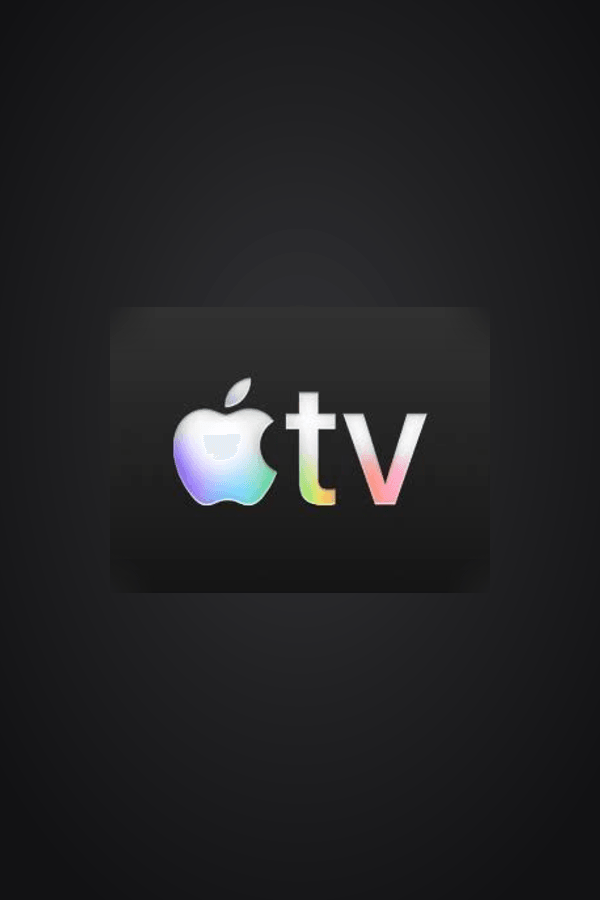
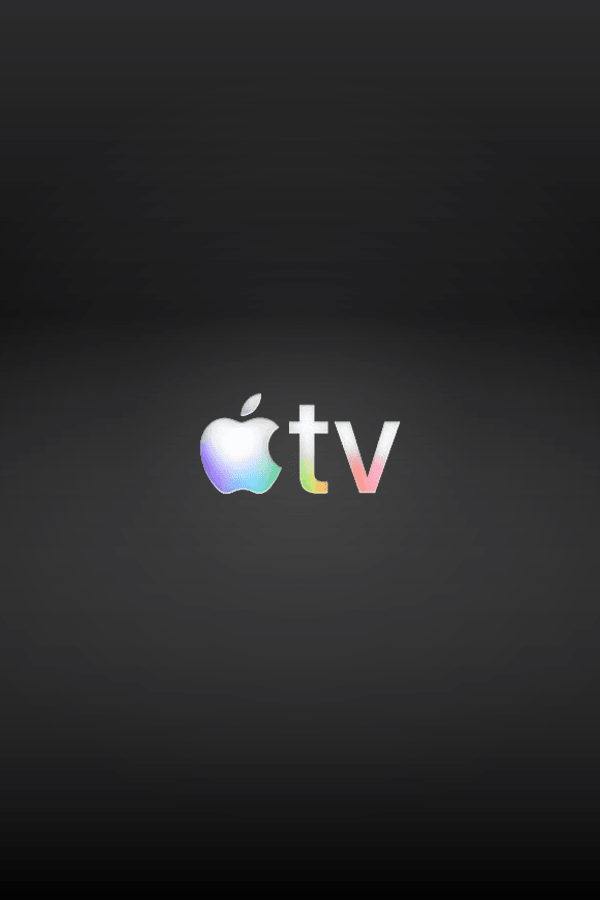
fix: unify card backgrounds to luxury obsidian dark glass and match hero reference background

diff --git a/scripts/build-luxury-cards.js b/scripts/build-luxury-cards.js
@@ -1,0 +1,194 @@
+const fs = require('fs');
+const path = require('path');
+const sharp = require('sharp');
+
+async function main() {
+  const brandsDir = path.join(process.cwd(), 'public', 'brands');
+
+  // Unified luxury card size: 600 x 900
+  const W = 600;
+  const H = 900;
+
+  // Helper to generate a luxury obsidian glass card base with subtle brand ambient backlight
+  function createCardSvg({ glowColor, glowOpacity = 0.22, glowRadius = '55%', topGlow = false }) {
+    return `
+      <svg width="${W}" height="${H}" xmlns="http://www.w3.org/2000/svg">
+        <defs>
+          <!-- Deep luxury dark card base -->
+          <linearGradient id="cardBase" x1="0%" y1="0%" x2="0%" y2="100%">
+            <stop offset="0%" stop-color="#141416" />
+            <stop offset="40%" stop-color="#0b0b0d" />
+            <stop offset="100%" stop-color="#050506" />
+          </linearGradient>
+
+          <!-- Subtle glass surface highlight on top edge -->
+          <linearGradient id="glassSheen" x1="0%" y1="0%" x2="0%" y2="100%">
+            <stop offset="0%" stop-color="#ffffff" stop-opacity="0.10" />
+            <stop offset="35%" stop-color="#ffffff" stop-opacity="0.02" />
+            <stop offset="100%" stop-color="#000000" stop-opacity="0.6" />
+          </linearGradient>
+
+          <!-- Ambient brand backlight glow in center -->
+          <radialGradient id="ambientGlow" cx="50%" cy="50%" r="${glowRadius}">
+            <stop offset="0%" stop-color="${glowColor}" stop-opacity="${glowOpacity}" />
+            <stop offset="45%" stop-color="${glowColor}" stop-opacity="${glowOpacity * 0.4}" />
+            <stop offset="100%" stop-color="${glowColor}" stop-opacity="0" />
+          </radialGradient>
+        </defs>
+
+        <!-- Base background -->
+        <rect width="${W}" height="${H}" fill="url(#cardBase)" />
+
+        <!-- Ambient glow behind the logo -->
+        <circle cx="${W / 2}" cy="${H / 2}" r="${W * 0.7}" fill="url(#ambientGlow)" />
+
+        <!-- Glass sheen -->
+        <rect width="${W}" height="${H}" fill="url(#glassSheen)" />
+      </svg>
+    `;
+  }
+
+  // 1. Netflix: Deep obsidian card with subtle red ambient backlight
+  const netflixSvg = createCardSvg({ glowColor: '#E50914', glowOpacity: 0.28, glowRadius: '50%' });
+  const netflixBase = await sharp(Buffer.from(netflixSvg)).png().toBuffer();
+  // Logo from netflix-transparent.png
+  const netflixLogo = await sharp(path.join(brandsDir, 'netflix-transparent.png'))
+    .resize(220, null, { fit: 'inside' })
+    .toBuffer();
+  await sharp(netflixBase)
+    .composite([{ input: netflixLogo, gravity: 'center' }])
+    .png({ quality: 95 })
+    .toFile(path.join(brandsDir, 'card-netflix.png'));
+  console.log('1. card-netflix.png generated');
+
+  // 2. beIN SPORTS: Deep obsidian card with subtle royal violet ambient backlight
+  const beInSvg = createCardSvg({ glowColor: '#5c2c90', glowOpacity: 0.35, glowRadius: '55%' });
+  const beInBase = await sharp(Buffer.from(beInSvg)).png().toBuffer();
+  const beInLogo = await sharp(path.join(brandsDir, 'beinsports-transparent.png'))
+    .resize(340, null, { fit: 'inside' })
+    .toBuffer();
+  await sharp(beInBase)
+    .composite([{ input: beInLogo, gravity: 'center' }])
+    .png({ quality: 95 })
+    .toFile(path.join(brandsDir, 'card-beinsports.png'));
+  console.log('2. card-beinsports.png generated');
+
+  // 3. Apple TV+: Deep obsidian card with graphite silver backlight
+  const appleSvg = createCardSvg({ glowColor: '#FFFFFF', glowOpacity: 0.14, glowRadius: '45%' });
+  const appleBase = await sharp(Buffer.from(appleSvg)).png().toBuffer();
+  const appleLogo = await sharp(path.join(brandsDir, 'appletv-transparent.png'))
+    .resize(300, null, { fit: 'inside' })
+    .toBuffer();
+  await sharp(appleBase)
+    .composite([{ input: appleLogo, gravity: 'center' }])
+    .png({ quality: 95 })
+    .toFile(path.join(brandsDir, 'card-appletv.png'));
+  console.log('3. card-appletv.png generated');
+
+  // 4. CANAL+: Pure luxury deep black with subtle silver halo
+  const canalSvg = `
+    <svg width="${W}" height="${H}" xmlns="http://www.w3.org/2000/svg">
+      <defs>
+        <linearGradient id="canalBase" x1="0%" y1="0%" x2="0%" y2="100%">
+          <stop offset="0%" stop-color="#141416" />
+          <stop offset="40%" stop-color="#0b0b0d" />
+          <stop offset="100%" stop-color="#050506" />
+        </linearGradient>
+        <radialGradient id="canalHalo" cx="50%" cy="50%" r="50%">
+          <stop offset="0%" stop-color="#ffffff" stop-opacity="0.10" />
+          <stop offset="100%" stop-color="#ffffff" stop-opacity="0" />
+        </radialGradient>
+      </defs>
+      <rect width="${W}" height="${H}" fill="url(#canalBase)" />
+      <circle cx="${W / 2}" cy="${H / 2}" r="${W * 0.6}" fill="url(#canalHalo)" />
+      <!-- CANAL+ framed capsule -->
+      <g transform="translate(300, 450) scale(1.65)">
+        <rect x="-105" y="-32" width="210" height="64" rx="8" fill="#000000" stroke="#444444" stroke-width="2" />
+        <text x="0" y="10" fill="#FFFFFF" font-family="-apple-system, BlinkMacSystemFont, 'Segoe UI', Roboto, sans-serif" font-size="34" font-weight="900" letter-spacing="4" text-anchor="middle">CANAL+</text>
+      </g>
+    </svg>
+  `;
+  await sharp(Buffer.from(canalSvg))
+    .png({ quality: 95 })
+    .toFile(path.join(brandsDir, 'card-canalplus.png'));
+  console.log('4. card-canalplus.png generated');
+
+  // 5. Disney+: Deep obsidian card with subtle cosmic cyan/blue backlight
+  const disneySvg = createCardSvg({ glowColor: '#00A8E1', glowOpacity: 0.30, glowRadius: '55%' });
+  const disneyBase = await sharp(Buffer.from(disneySvg)).png().toBuffer();
+  const disneyLogo = await sharp(path.join(brandsDir, 'disneyplus-transparent.png'))
+    .resize(360, null, { fit: 'inside' })
+    .toBuffer();
+  await sharp(disneyBase)
+    .composite([{ input: disneyLogo, gravity: 'center' }])
+    .png({ quality: 95 })
+    .toFile(path.join(brandsDir, 'card-disneyplus.png'));
+  console.log('5. card-disneyplus.png generated');
+
+  // 6. Prime Video: Deep obsidian card with subtle cyan smile backlight
+  const primeSvg = `
+    <svg width="${W}" height="${H}" xmlns="http://www.w3.org/2000/svg">
+      <defs>
+        <linearGradient id="primeBase" x1="0%" y1="0%" x2="0%" y2="100%">
+          <stop offset="0%" stop-color="#141416" />
+          <stop offset="40%" stop-color="#0b0b0d" />
+          <stop offset="100%" stop-color="#050506" />
+        </linearGradient>
+        <radialGradient id="primeGlow" cx="50%" cy="50%" r="55%">
+          <stop offset="0%" stop-color="#00A8E1" stop-opacity="0.25" />
+          <stop offset="60%" stop-color="#00A8E1" stop-opacity="0.05" />
+          <stop offset="100%" stop-color="#00A8E1" stop-opacity="0" />
+        </radialGradient>
+      </defs>
+      <rect width="${W}" height="${H}" fill="url(#primeBase)" />
+      <circle cx="${W / 2}" cy="${H / 2}" r="${W * 0.6}" fill="url(#primeGlow)" />
+      <!-- Prime Video wordmark & smile arrow centered -->
+      <g transform="translate(230, 450) scale(1.45)">
+        <g transform="translate(0, -12)">
+          <text x="-48" y="16" fill="#FFFFFF" font-family="-apple-system, BlinkMacSystemFont, 'Segoe UI', Roboto, sans-serif" font-size="44" font-weight="800" letter-spacing="-1">prime</text>
+          <text x="56" y="16" fill="#00A8E1" font-family="-apple-system, BlinkMacSystemFont, 'Segoe UI', Roboto, sans-serif" font-size="44" font-weight="300" letter-spacing="0">video</text>
+        </g>
+        <path d="M -90,26 C -40,46 40,46 90,26 C 75,34 60,38 45,40 C -15,44 -65,36 -90,26 Z" fill="#00A8E1" />
+        <path d="M 85,22 L 100,28 L 92,42 C 90,36 88,30 85,22 Z" fill="#00A8E1" />
+      </g>
+    </svg>
+  `;
+  await sharp(Buffer.from(primeSvg))
+    .png({ quality: 95 })
+    .toFile(path.join(brandsDir, 'card-primevideo.png'));
+  console.log('6. card-primevideo.png generated');
+
+  // 7. HBO Max: Deep obsidian card with subtle violet backlight
+  const hboSvg = `
+    <svg width="${W}" height="${H}" xmlns="http://www.w3.org/2000/svg">
+      <defs>
+        <linearGradient id="hboBase" x1="0%" y1="0%" x2="0%" y2="100%">
+          <stop offset="0%" stop-color="#141416" />
+          <stop offset="40%" stop-color="#0b0b0d" />
+          <stop offset="100%" stop-color="#050506" />
+        </linearGradient>
+        <radialGradient id="hboGlow" cx="50%" cy="50%" r="55%">
+          <stop offset="0%" stop-color="#7B2CBF" stop-opacity="0.30" />
+          <stop offset="60%" stop-color="#7B2CBF" stop-opacity="0.06" />
+          <stop offset="100%" stop-color="#7B2CBF" stop-opacity="0" />
+        </radialGradient>
+      </defs>
+      <rect width="${W}" height="${H}" fill="url(#hboBase)" />
+      <circle cx="${W / 2}" cy="${H / 2}" r="${W * 0.6}" fill="url(#hboGlow)" />
+      <!-- HBO MAX wordmark centered -->
+      <g transform="translate(340, 450) scale(1.5)">
+        <text x="-58" y="14" fill="#FFFFFF" font-family="-apple-system, BlinkMacSystemFont, 'Segoe UI', Roboto, sans-serif" font-size="52" font-weight="900" letter-spacing="-2" text-anchor="middle">HBO</text>
+        <rect x="-10" y="-24" width="76" height="42" rx="8" fill="#7B2CBF" />
+        <text x="28" y="7" fill="#FFFFFF" font-family="-apple-system, BlinkMacSystemFont, 'Segoe UI', Roboto, sans-serif" font-size="24" font-weight="900" letter-spacing="2" text-anchor="middle">MAX</text>
+      </g>
+    </svg>
+  `;
+  await sharp(Buffer.from(hboSvg))
+    .png({ quality: 95 })
+    .toFile(path.join(brandsDir, 'card-hbomax.png'));
+  console.log('7. card-hbomax.png generated');
+
+  console.log('ALL 7 CARDS COMPILED WITH UNIFIED OBSIDIAN CINEMATIC BACKGROUNDS!');
+}
+
+main().catch(console.error);

diff --git a/src/components/HeroMinimal.tsx b/src/components/HeroMinimal.tsx
@@ -55,9 +55,9 @@ function GalleryCard({
         zIndex,
       }}
       onClick={onClick}
-      className={`group relative shrink-0 cursor-pointer select-none rounded-2xl md:rounded-3xl overflow-hidden border border-white/20 hover:border-white/60 transition-all duration-500 hover:!scale-105 hover:!translate-y-[-14px] hover:!rotate-0 hover:z-50 shadow-2xl shadow-black/80 w-36 sm:w-48 md:w-56 ${item.bgClass} flex items-center justify-center ${item.heightClass}`}
+      className={`group relative shrink-0 cursor-pointer select-none rounded-2xl md:rounded-3xl overflow-hidden border border-white/15 hover:border-white/50 transition-all duration-500 hover:!scale-105 hover:!translate-y-[-14px] hover:!rotate-0 hover:z-50 shadow-2xl shadow-black/90 w-36 sm:w-48 md:w-56 bg-[#0b0b0d] flex items-center justify-center ${item.heightClass}`}
     >
-      {/* Pure Brand Image (600x900 portrait card artwork with generous margins & zero cropping) */}
+      {/* Pure Brand Image (600x900 portrait card artwork with unified luxury obsidian background) */}
       <div className="relative w-full h-full flex items-center justify-center">
         <Image
           src={item.poster}
@@ -74,7 +74,7 @@ function GalleryCard({
 }
 
 export function HeroMinimal({ onSelectMedia }: HeroMinimalProps) {
-  // 7 pure cinematic brand cards matching the user's reference images with seamless backgrounds and generous padding
+  // 7 pure cinematic brand cards with unified luxury obsidian glass backgrounds and centered logos
   const galleryItems: GalleryCardItem[] = [
     {
       id: "gal-1",
@@ -85,7 +85,7 @@ export function HeroMinimal({ onSelectMedia }: HeroMinimalProps) {
       poster: "/brands/card-netflix.png",
       fallback: "/brands/card-netflix.png",
       heightClass: "h-64 sm:h-72 md:h-80",
-      bgClass: "bg-black",
+      bgClass: "bg-[#0b0b0d]",
       movie: CURATED_TMDB_MOVIES[0],
     },
     {
@@ -97,7 +97,7 @@ export function HeroMinimal({ onSelectMedia }: HeroMinimalProps) {
       poster: "/brands/card-beinsports.png",
       fallback: "/brands/card-beinsports.png",
       heightClass: "h-72 sm:h-80 md:h-88",
-      bgClass: "bg-[#5c2c90]",
+      bgClass: "bg-[#0b0b0d]",
       movie: CURATED_TMDB_MOVIES[1],
     },
     {
@@ -109,7 +109,7 @@ export function HeroMinimal({ onSelectMedia }: HeroMinimalProps) {
       poster: "/brands/card-appletv.png",
       fallback: "/brands/card-appletv.png",
       heightClass: "h-60 sm:h-68 md:h-76",
-      bgClass: "bg-[#212123]",
+      bgClass: "bg-[#0b0b0d]",
       movie: CURATED_TMDB_SERIES[0],
     },
     {
@@ -121,7 +121,7 @@ export function HeroMinimal({ onSelectMedia }: HeroMinimalProps) {
       poster: "/brands/card-canalplus.png",
       fallback: "/brands/card-canalplus.png",
       heightClass: "h-68 sm:h-76 md:h-84",
-      bgClass: "bg-[#050505]",
+      bgClass: "bg-[#0b0b0d]",
       movie: CURATED_TMDB_MOVIES[2],
     },
     {
@@ -133,7 +133,7 @@ export function HeroMinimal({ onSelectMedia }: HeroMinimalProps) {
       poster: "/brands/card-disneyplus.png",
       fallback: "/brands/card-disneyplus.png",
       heightClass: "h-72 sm:h-80 md:h-88",
-      bgClass: "bg-[#021526]",
+      bgClass: "bg-[#0b0b0d]",
       movie: CURATED_TMDB_SERIES[1],
     },
     {
@@ -145,7 +145,7 @@ export function HeroMinimal({ onSelectMedia }: HeroMinimalProps) {
       poster: "/brands/card-primevideo.png",
       fallback: "/brands/card-primevideo.png",
       heightClass: "h-64 sm:h-72 md:h-80",
-      bgClass: "bg-[#09131d]",
+      bgClass: "bg-[#0b0b0d]",
       movie: CURATED_TMDB_MOVIES[3],
     },
     {
@@ -157,7 +157,7 @@ export function HeroMinimal({ onSelectMedia }: HeroMinimalProps) {
       poster: "/brands/card-hbomax.png",
       fallback: "/brands/card-hbomax.png",
       heightClass: "h-60 sm:h-68 md:h-76",
-      bgClass: "bg-[#140224]",
+      bgClass: "bg-[#0b0b0d]",
       movie: CURATED_TMDB_SERIES[2],
     },
   ];
@@ -189,19 +189,19 @@ export function HeroMinimal({ onSelectMedia }: HeroMinimalProps) {
 
   return (
     <div className="hero-cinema relative w-full min-h-screen flex flex-col justify-between overflow-hidden bg-[#080808] pt-28 pb-8">
-      {/* 1. Full-screen Cinematic Photographic Background */}
+      {/* 1. Full-screen Cinematic Photographic Background (Matching Atelier Arc architectural & natural landscape reference) */}
       <div className="absolute inset-0 z-0">
         <Image
-          src="https://images.unsplash.com/photo-1509198397868-475647b2a1e5?q=80&w=2560&auto=format&fit=crop"
+          src="https://images.unsplash.com/photo-1509316975850-ff9c5deb0cd9?q=80&w=2560&auto=format&fit=crop"
           alt="Atmosphère Cinématographique NOUDINE"
           fill
           priority
           sizes="100vw"
-          className="object-cover object-center filter brightness-[0.80] contrast-[1.08]"
+          className="object-cover object-center filter brightness-[0.70] contrast-[1.10]"
         />
         {/* Subtle dark vignette overlay for typography readability */}
-        <div className="absolute inset-0 bg-gradient-to-t from-[#080808] via-black/50 to-black/30 dark:from-[#080808]" />
-        <div className="absolute inset-0 bg-radial-gradient from-transparent via-black/30 to-[#080808]/90" />
+        <div className="absolute inset-0 bg-gradient-to-t from-[#080808] via-black/55 to-black/35 dark:from-[#080808]" />
+        <div className="absolute inset-0 bg-radial-gradient from-transparent via-black/40 to-[#080808]/95" />
       </div>
 
       {/* 2. Centered Typography (Matching Atelier Arc composition with NOUDINE brand) */}
